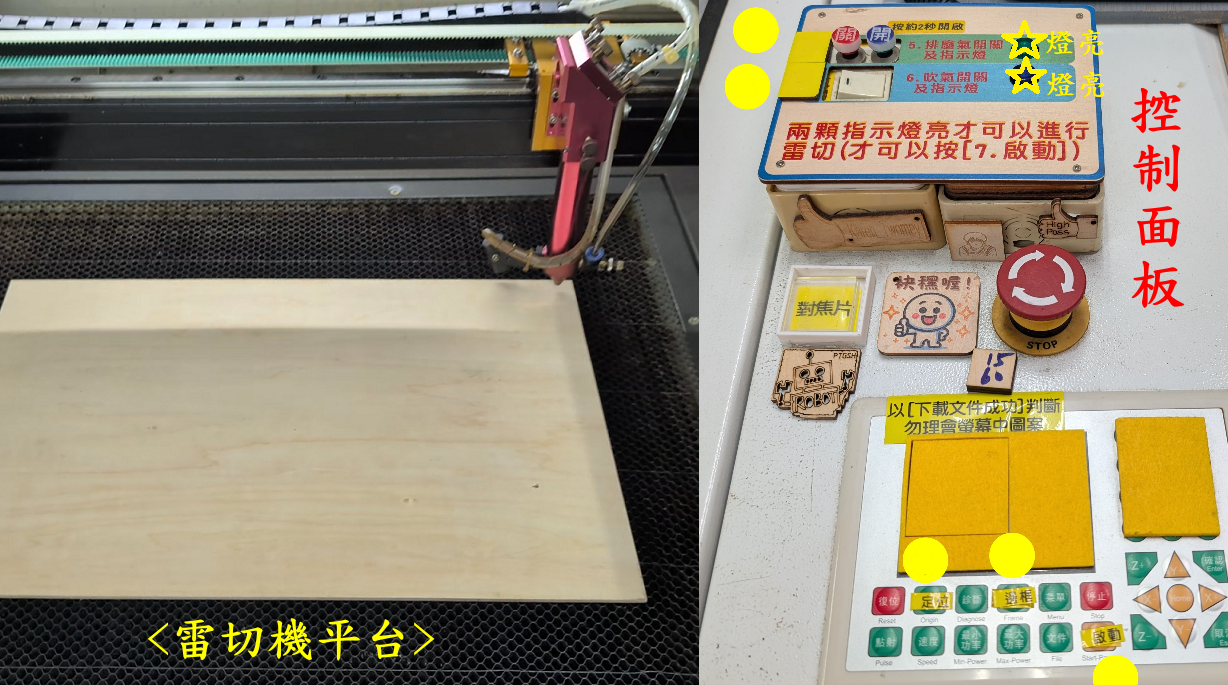
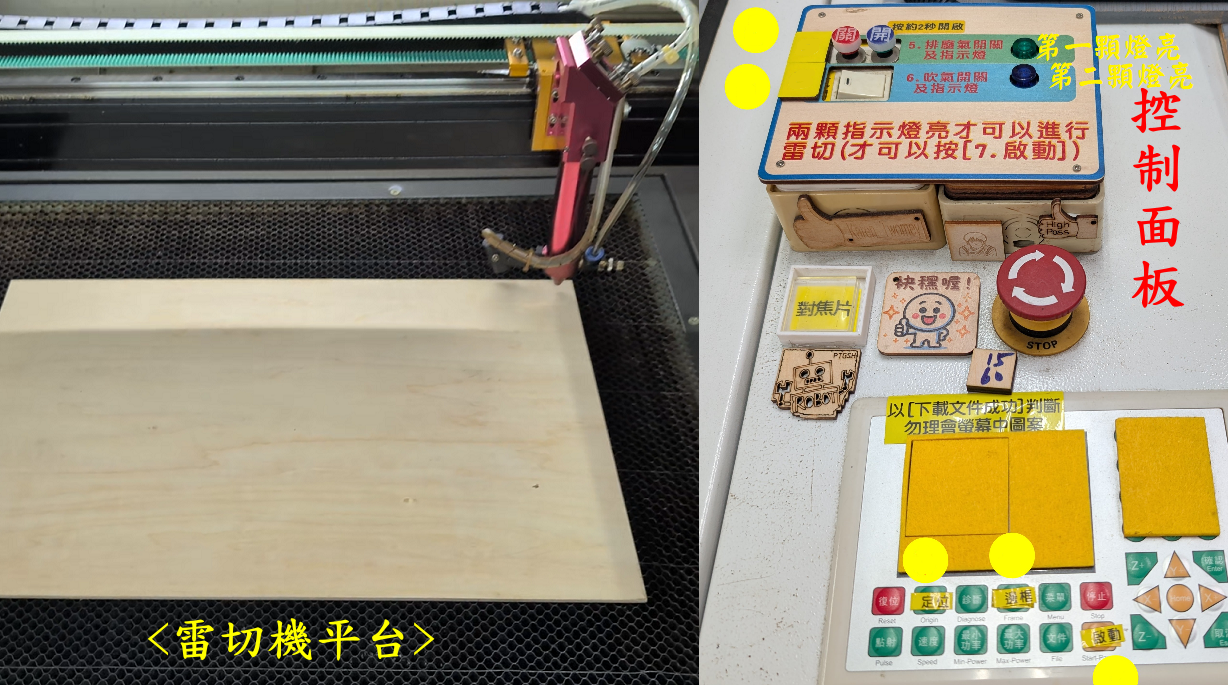
Add files via upload

Changed region(s): [[0.8046, 0.0307, 0.9902, 0.1533]]

diff --git a/index.html b/index.html
@@ -11,8 +11,7 @@
             background-image: url('畫面1.png'); background-size: 100% 100%;
             border: 3px solid #333; box-shadow: 0 0 20px rgba(0,0,0,0.3);
         }
-
-        .hotspot { position: absolute; cursor: pointer; background: rgba(255, 0, 0, 0); z-index: 10; }
+	.hotspot { position: absolute; cursor: pointer; z-index: 10; transition: all 0.3s ease; }
         .modal { display: none; position: absolute; top: 50%; left: 50%; transform: translate(-50%, -50%); z-index: 100; box-shadow: 0 0 30px rgba(0,0,0,0.5); }
 
         /* 任務一熱區 */
@@ -37,19 +36,66 @@
         #btn-air { top: 9.5%; left: 67.5%; width: 5.1%; height: 5.5%; display: none; }
 
         /* 任務五熱區：啟動按鈕 */
-        #btn-start-laser { top: 84.5%; left: 87.6%; width: 3.2%; height: 5%; display: none; }
+        #btn-start-laser { top: 90%; left: 88%; width: 3.2%; height: 5%; display: none; }
 
         /* 影片視窗 */
         #video-modal { display: none; position: absolute; top: 50%; left: 50%; transform: translate(-50%, -50%); z-index: 200; background: #000; border: 4px solid #fff; text-align: center; }
 
         .hint-panel { margin-top: 20px; padding: 15px; background: white; border-left: 10px solid #2980b9; width: 800px; text-align: center; }
         #msg { font-size: 20px; font-weight: bold; }
+
+	/* 指示燈通用樣式 */
+	.indicator-light {
+    	position: absolute;
+    	width: 15px;  /* 根據圖片燈的大小調整 */
+    	height: 15px;
+    	border-radius: 50%;
+    	background: rgba(255, 255, 0, 0.8);
+    	display: none; /* 預設隱藏 */
+    	z-index: 5;
+    	pointer-events: none; /* 讓光影不會擋住滑鼠點擊 */
+    	animation: lightGlow 1.2s infinite ease-in-out;
+	}
+
+	/* 調整這兩個座標，直到光暈對準圖片上的燈 */
+	#light-exhaust {
+    	top: 5%;  /* 排廢氣按鈕右側的燈位置 */
+    	left: 82.5%; 
+    	box-shadow: 0 0 15px 5px rgba(255, 255, 0, 0.9);
+	}
+
+	#light-air {
+    	top: 10%; /* 吹氣按鈕右側的燈位置 */
+    	left: 82.5%;
+    	box-shadow: 0 0 15px 5px rgba(255, 255, 0, 0.9);
+	}
+
+	/* 呼吸燈動畫保持不變 */
+	@keyframes lightGlow {
+    	0% { opacity: 1; transform: scale(1); }
+    	50% { opacity: 0.5; transform: scale(1.1); }
+    	100% { opacity: 1; transform: scale(1); }
+	}
+
+	/* 讓按鈕閃爍引導點擊 (不帶黃色背景，只用邊框或微光) */
+	 #btn-origin, #btn-frame, #btn-exhaust, #btn-air {
+    	border: 2px solid rgba(255, 255, 0, 0.5);
+    	animation: buttonHint 1s infinite alternate;
+	}
+
+	@keyframes buttonHint {
+    	from { background: rgba(255, 255, 0, 0); }
+    	to { background: rgba(255, 255, 0, 0.2); }
+	}
+
+
+
     </style>
 </head>
 <body>
 
     <div class="hint-panel">
-        <div id="msg">步驟 1：請開啟雷射切割檔案 (點擊「文件」-「打開」)</div>
+        <div id="msg">步驟 1：請開啟雷切rld檔案 (點擊「文件」-「打開」)</div>
     </div>    
     
     <div id="main-view">
@@ -87,6 +133,8 @@
             <video id="player" width="700" height="400" controls></video>
             <br><button id="btn-video-close" style="padding:10px; width:100%; cursor:pointer;"></button>
         </div>
+	<div id="light-exhaust" class="indicator-light"></div>
+	<div id="light-air" class="indicator-light"></div>
     </div>
 
 
@@ -130,11 +178,12 @@
                 // 新增：出現畫面3後彈出 alert
                 setTimeout(() => {
                     alert("請輸入班級座號作為檔名");
+                    document.getElementById('msg').innerText = "提示：點擊輸入欄位後(會出現游標)，在欄位輸入班級座號";
                 }, 100);
             }
         }
         function handleSuccess() { if(document.getElementById('input-filename').value.trim()==="") return alert("請輸入名稱"); document.getElementById('name-dialog').style.display = 'none'; document.getElementById('success-dialog').style.display = 'block'; }
-        function handleOverwriteAlert() { document.getElementById('success-dialog').style.display = 'none'; alert("注意：若有重名，請一律選擇[是]"); document.getElementById('overwrite-dialog').style.display = 'block'; }
+        function handleOverwriteAlert() { document.getElementById('success-dialog').style.display = 'none'; alert("注意：若有重名，請一律選擇[是]"); document.getElementById('overwrite-dialog').style.display = 'block'; document.getElementById('msg').innerText = "注意：若有重覆傳檔，請一律選擇「是」"; }
         
         // 任務三
         function startTask3() {
@@ -147,7 +196,7 @@
             alert("步驟 3 提醒：請將材料正確放在雷切機平台上。");
             document.getElementById('msg').innerText = "步驟 3、4：請在控制面板按下「定位」及「邊框」";
         }
-        function doOrigin() { isOrigined = true; alert("✅ 「定位」完成，請再按「邊框」"); document.getElementById('msg').innerText = "步驟 3：請按下「邊框」檢查範圍"; }
+        function doOrigin() { isOrigined = true; alert("✅ 「定位」完成，請再按「邊框」"); document.getElementById('msg').innerText = "步驟 4：請按下「邊框」檢查範圍"; }
         
         function doFrame() {
             if(!isOrigined) return alert("請先按下「定位」！");
@@ -175,19 +224,33 @@
             document.getElementById('msg').innerText = "步驟 5：請開啟上方控制盒的「排廢氣」開關";
         }
 
-        function switchExhaust() {
-            document.getElementById('main-view').style.backgroundImage = "url('畫面6-2.png')";
-            document.getElementById('btn-exhaust').style.display = 'none';
-            document.getElementById('btn-air').style.display = 'block';
-            document.getElementById('msg').innerText = "步驟 4：請開啟「吹氣」開關";
-        }
+	function switchExhaust() {
+    	// 1. 切換背景底圖 (畫面6-2)
+    	document.getElementById('main-view').style.backgroundImage = "url('畫面6-2.png')";
+    
+    	// 2. 點亮排廢氣旁的指示燈
+    	document.getElementById('light-exhaust').style.display = 'block';
+    
+    	// 3. 切換按鈕引導
+    	document.getElementById('btn-exhaust').style.display = 'none';
+    	document.getElementById('btn-air').style.display = 'block';
+    
+    	document.getElementById('msg').innerText = "任務 4：排廢氣已啟動，請開啟「吹氣」開關";
+	}
 
-        function switchAir() {
-            document.getElementById('main-view').style.backgroundImage = "url('畫面6-3.png')";
-            document.getElementById('btn-air').style.display = 'none';
-            alert("✅ 系統就緒！");
-            startTask5();
-        }
+	function switchAir() {
+    	// 1. 切換背景底圖 (畫面6-3)
+    	document.getElementById('main-view').style.backgroundImage = "url('畫面6-3.png')";
+    
+    	// 2. 點亮吹氣旁的指示燈
+    	document.getElementById('light-air').style.display = 'block';
+    
+    	// 3. 隱藏按鈕進入下一步
+    	document.getElementById('btn-air').style.display = 'none';
+    
+    	alert("✅ 系統已就緒，按下「啟動」開始雷切！");
+    	startTask5();
+	}
 
         // 任務五
         function startTask5() {
